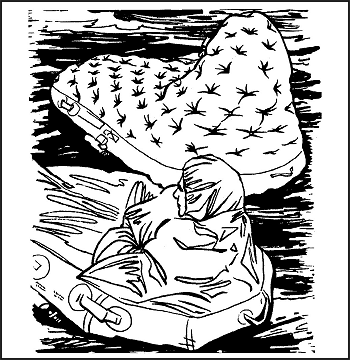
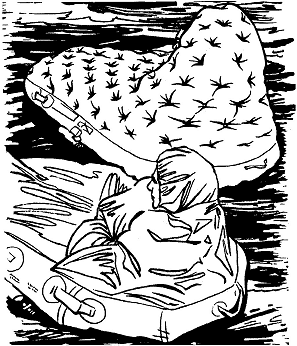
Cropping borders off diagrams in Sea and testing warning triangle in caution boxes in Power
Also rounded corners to the boxed div elements. I am trying 5px to complement the icons.

diff --git a/e-book/OEBPS/styles/zstylesheet.css b/e-book/OEBPS/styles/zstylesheet.css
@@ -265,6 +265,18 @@ h4.subheading {
 
 /*Book-specific headings*/
 
+h1.warningbox-heading {
+	font-size: 1.1em;
+	font-weight: bold;
+	margin: 0em;
+}
+
+h1.whitebox-heading {
+	font-size: 1.1em;
+	font-weight: bold;
+	margin: 0em;
+}
+
 h1.protip-heading {
 	font-size: 1.2em;
 	font-weight: bold;
@@ -834,6 +846,7 @@ div.title-page {
 div.greybox {
 	border: solid #000 2px;
 	background-color: #D3D3D3;
+	border-radius: 5px;
 	padding: 1em;
 	margin-top: 1em;
 	margin-bottom: 1em;
@@ -842,6 +855,7 @@ div.greybox {
 div.whitebox {
 	border: solid #000 2px;
 	background-color: none;
+	border-radius: 5px;
 	padding: 1em;
 	margin-top: 1em;
 	margin-bottom: 1em;
@@ -851,6 +865,7 @@ div.whitebox {
 div.warningbox {
 	border: solid #000 2px;
 	background-color: #F8DE7E;
+	border-radius: 5px;
 	padding: 1em;
 	margin-top: 1em;
 	margin-bottom: 1em;
